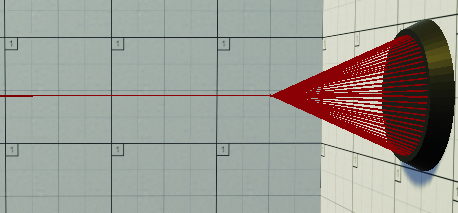
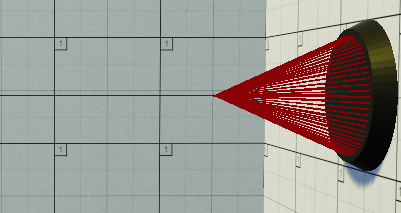
Resize

diff --git a/_posts/2022-07-09-virtual-reality-development.md b/_posts/2022-07-09-virtual-reality-development.md
@@ -213,7 +213,7 @@ if (!activated){
     </figure>
 </div>
 
-<div class="image right">
+<div class="image right" style="max-width: 30%;">
     <img src="{{site.url}}/images/RedShiftSensor1.PNG" alt="A red laser being fired out of a red wireframe in a cone shape against a white background.">
 </div>
 
